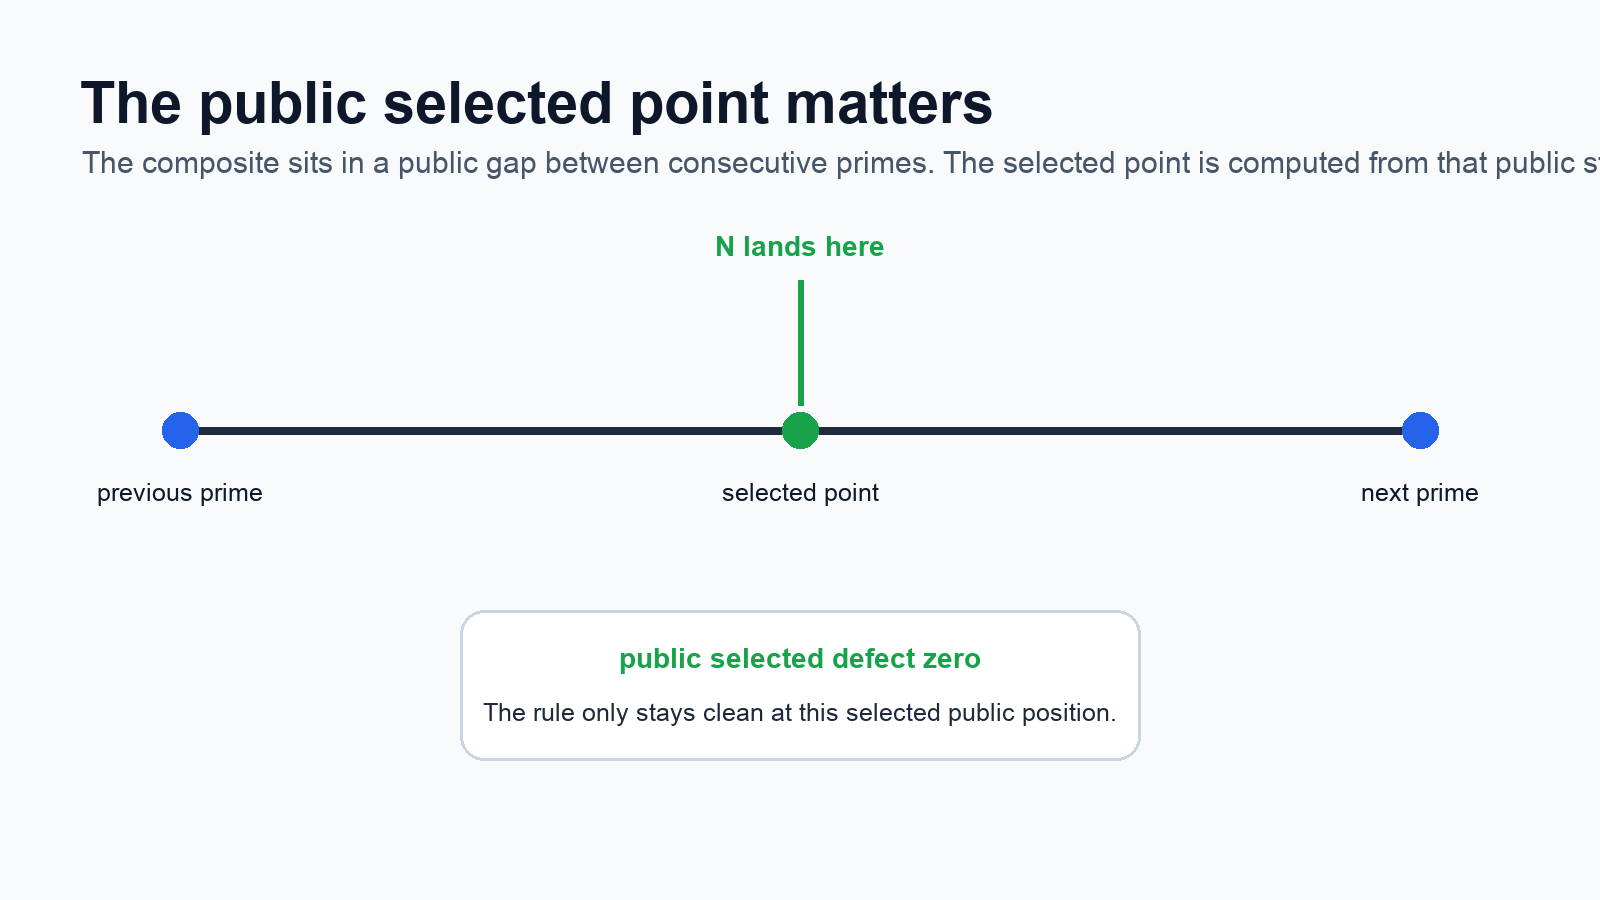
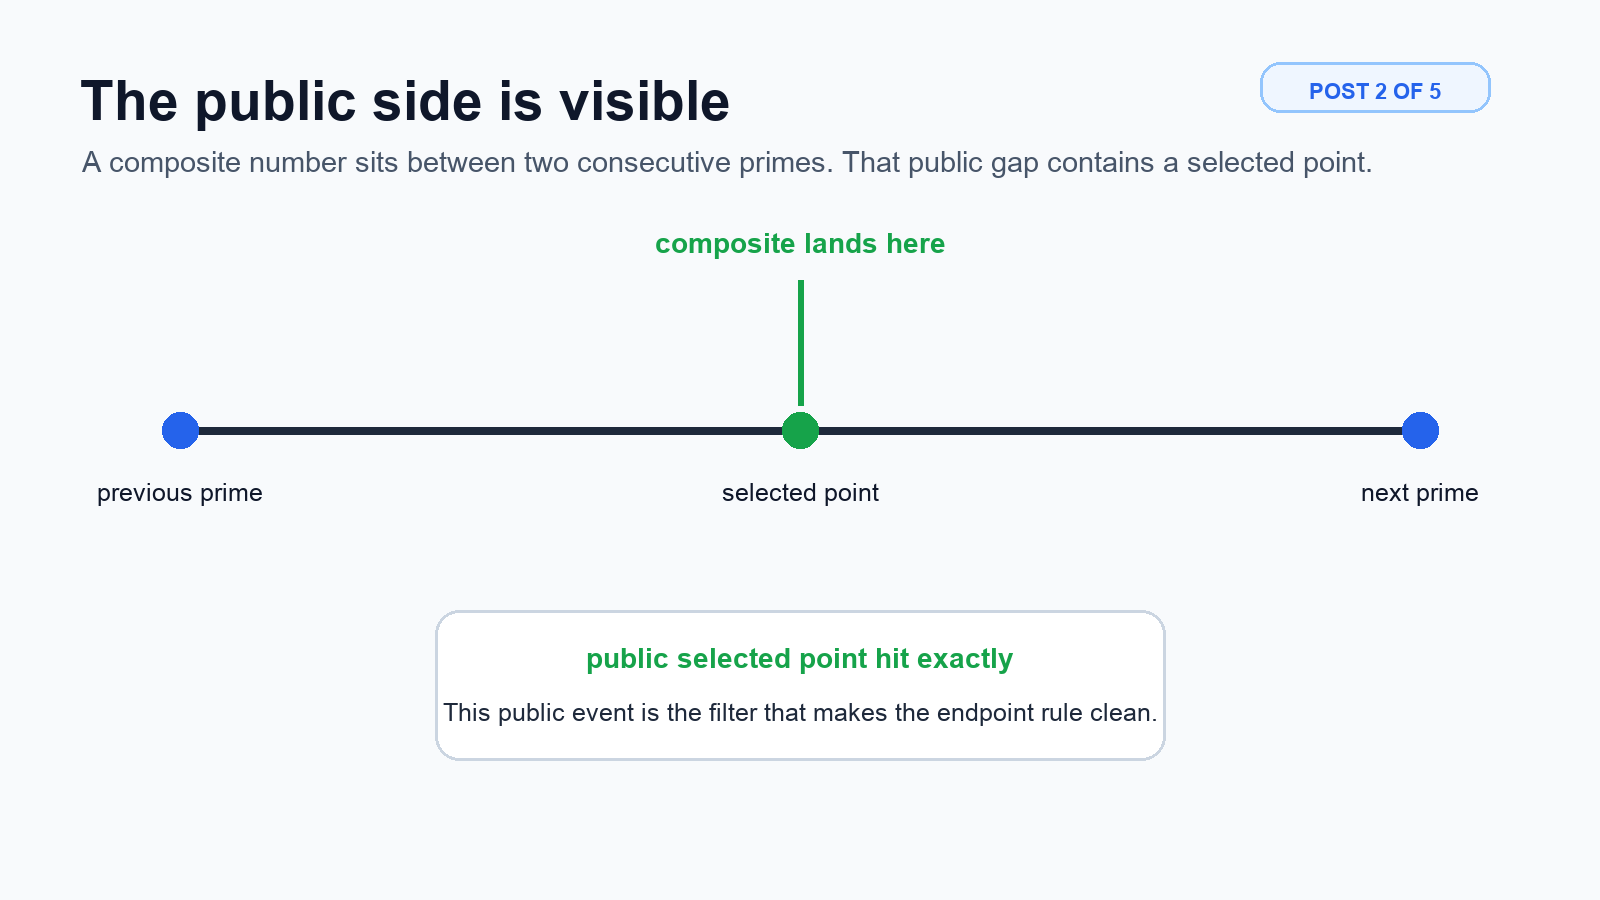
Correct zero to zero X thread storyboard

diff --git a/docs/x-posts/zero-to-zero-gap-law/README.md b/docs/x-posts/zero-to-zero-gap-law/README.md
@@ -1,27 +1,27 @@
-We reduced a noisy prime-gap compatibility search to one compact measured rule: public selected defect zero plus endpoint transport defect zero excludes 45,337 endpoint cells with zero exact falsifications. Save this one if you are tracking the factor-location branch, because the signal collapsed to a small, checkable structure.
+We found a clean zero-to-zero pattern in prime gaps: when the public gap lands exactly at its selected point and the hidden factor endpoints have balanced right gaps, 45,337 impossible endpoint cells were excluded with zero exact falsifications. Save this if you are tracking the factor-location branch.
 
 ![Zero to zero overview](01-zero-to-zero-overview.png)
 
 ---
 
-Start with the public side. A composite number sits inside a gap between two consecutive primes. Inside that public gap there is a selected position computed from the gap's own divisor structure. In the clean case, the composite lands exactly at that selected position. That is the public zero, and it is the part to watch.
+Start with the public side. A composite number sits inside a gap between two consecutive primes. That visible gap contains a selected point computed from the gap's own divisor structure. In the clean case, the composite lands exactly at that selected point. That public hit is the filter to watch.
 
 ![Public selected zero](02-public-selected-zero.png)
 
 ---
 
-Now look at the factor side. Each hidden prime factor has neighboring gaps around it. The clean endpoint condition says the right-opening behavior after the two endpoints has no transport defect. In residue language, both endpoint slots avoid 1 and 23, and at least one endpoint slot hits 7, 13, or 19. This is the piece worth stress-testing.
+Now look at the factor side. Each hidden prime factor has neighboring gaps around it. The clean endpoint condition is read from the right-opening gaps after the two factor endpoints. In residue language, both endpoint slots avoid 1 and 23, and at least one endpoint slot hits 7, 13, or 19. This is the piece worth stress-testing.
 
 ![Endpoint residue rule](03-endpoint-residue-rule.png)
 
 ---
 
-The contrast test is what makes this sharp. Endpoint balance alone leaks when the composite is not at the selected public point. At the selected point, endpoint transport defect zero gives 45,337 excluded cells and zero falsifications. Move away from that public point and the same endpoint idea starts leaking. This matrix is the shareable evidence.
+The contrast test is what makes this sharp. Endpoint balance alone leaks when the composite is not at the selected public point. At the selected point, balanced endpoints give 45,337 excluded cells and zero falsifications. Move away from that public point and the same endpoint idea starts leaking. This matrix is the shareable evidence.
 
 ![Contrast matrix](04-contrast-matrix.png)
 
 ---
 
-This is a measured law candidate, not a finished factor recovery algorithm. Broad representation search is done for this layer. The proof target is now narrow: explain why public selected defect zero stabilizes supported prior absence exactly at endpoint transport defect zero. Follow the next step: turn the measured kernel into the theorem.
+This is a measured law candidate for the factor-location theorem. Broad representation search is done for this layer. The proof target is now narrow: explain why the public zero stabilizes supported prior absence exactly at endpoint zero. Follow the next step: turn the measured kernel into the theorem.
 
 ![Proof target](05-proof-target.png)
